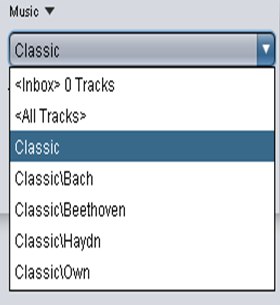
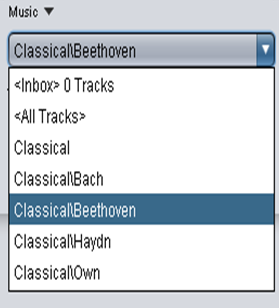
Pictures fixes: "Classical" not "Classic"

diff --git a/gettingStarted.html b/gettingStarted.html
@@ -133,7 +133,7 @@ gettingStarted: class='sel'
 					<p>
 						The screen above will show up informing you all the Sneer activities
 					</p>
-					<img id="logConsolePic" src="resources/imgs/logScreen.png" alt="" style="position: relative; width: 630px; height: 230px;" />
+					<img id="logConsolePic" src="resources/imgs/logScreen.png" alt="" style="position: relative; width: 630px; height: 160px;" />
 					<p>
 						Mapping task done, you just need to wait your friends music tracks be dowloaded.
 						If you want to follow the progress of your downloads go to <i>Menu</i> &rsaquo; <i>Downloads...</i>
